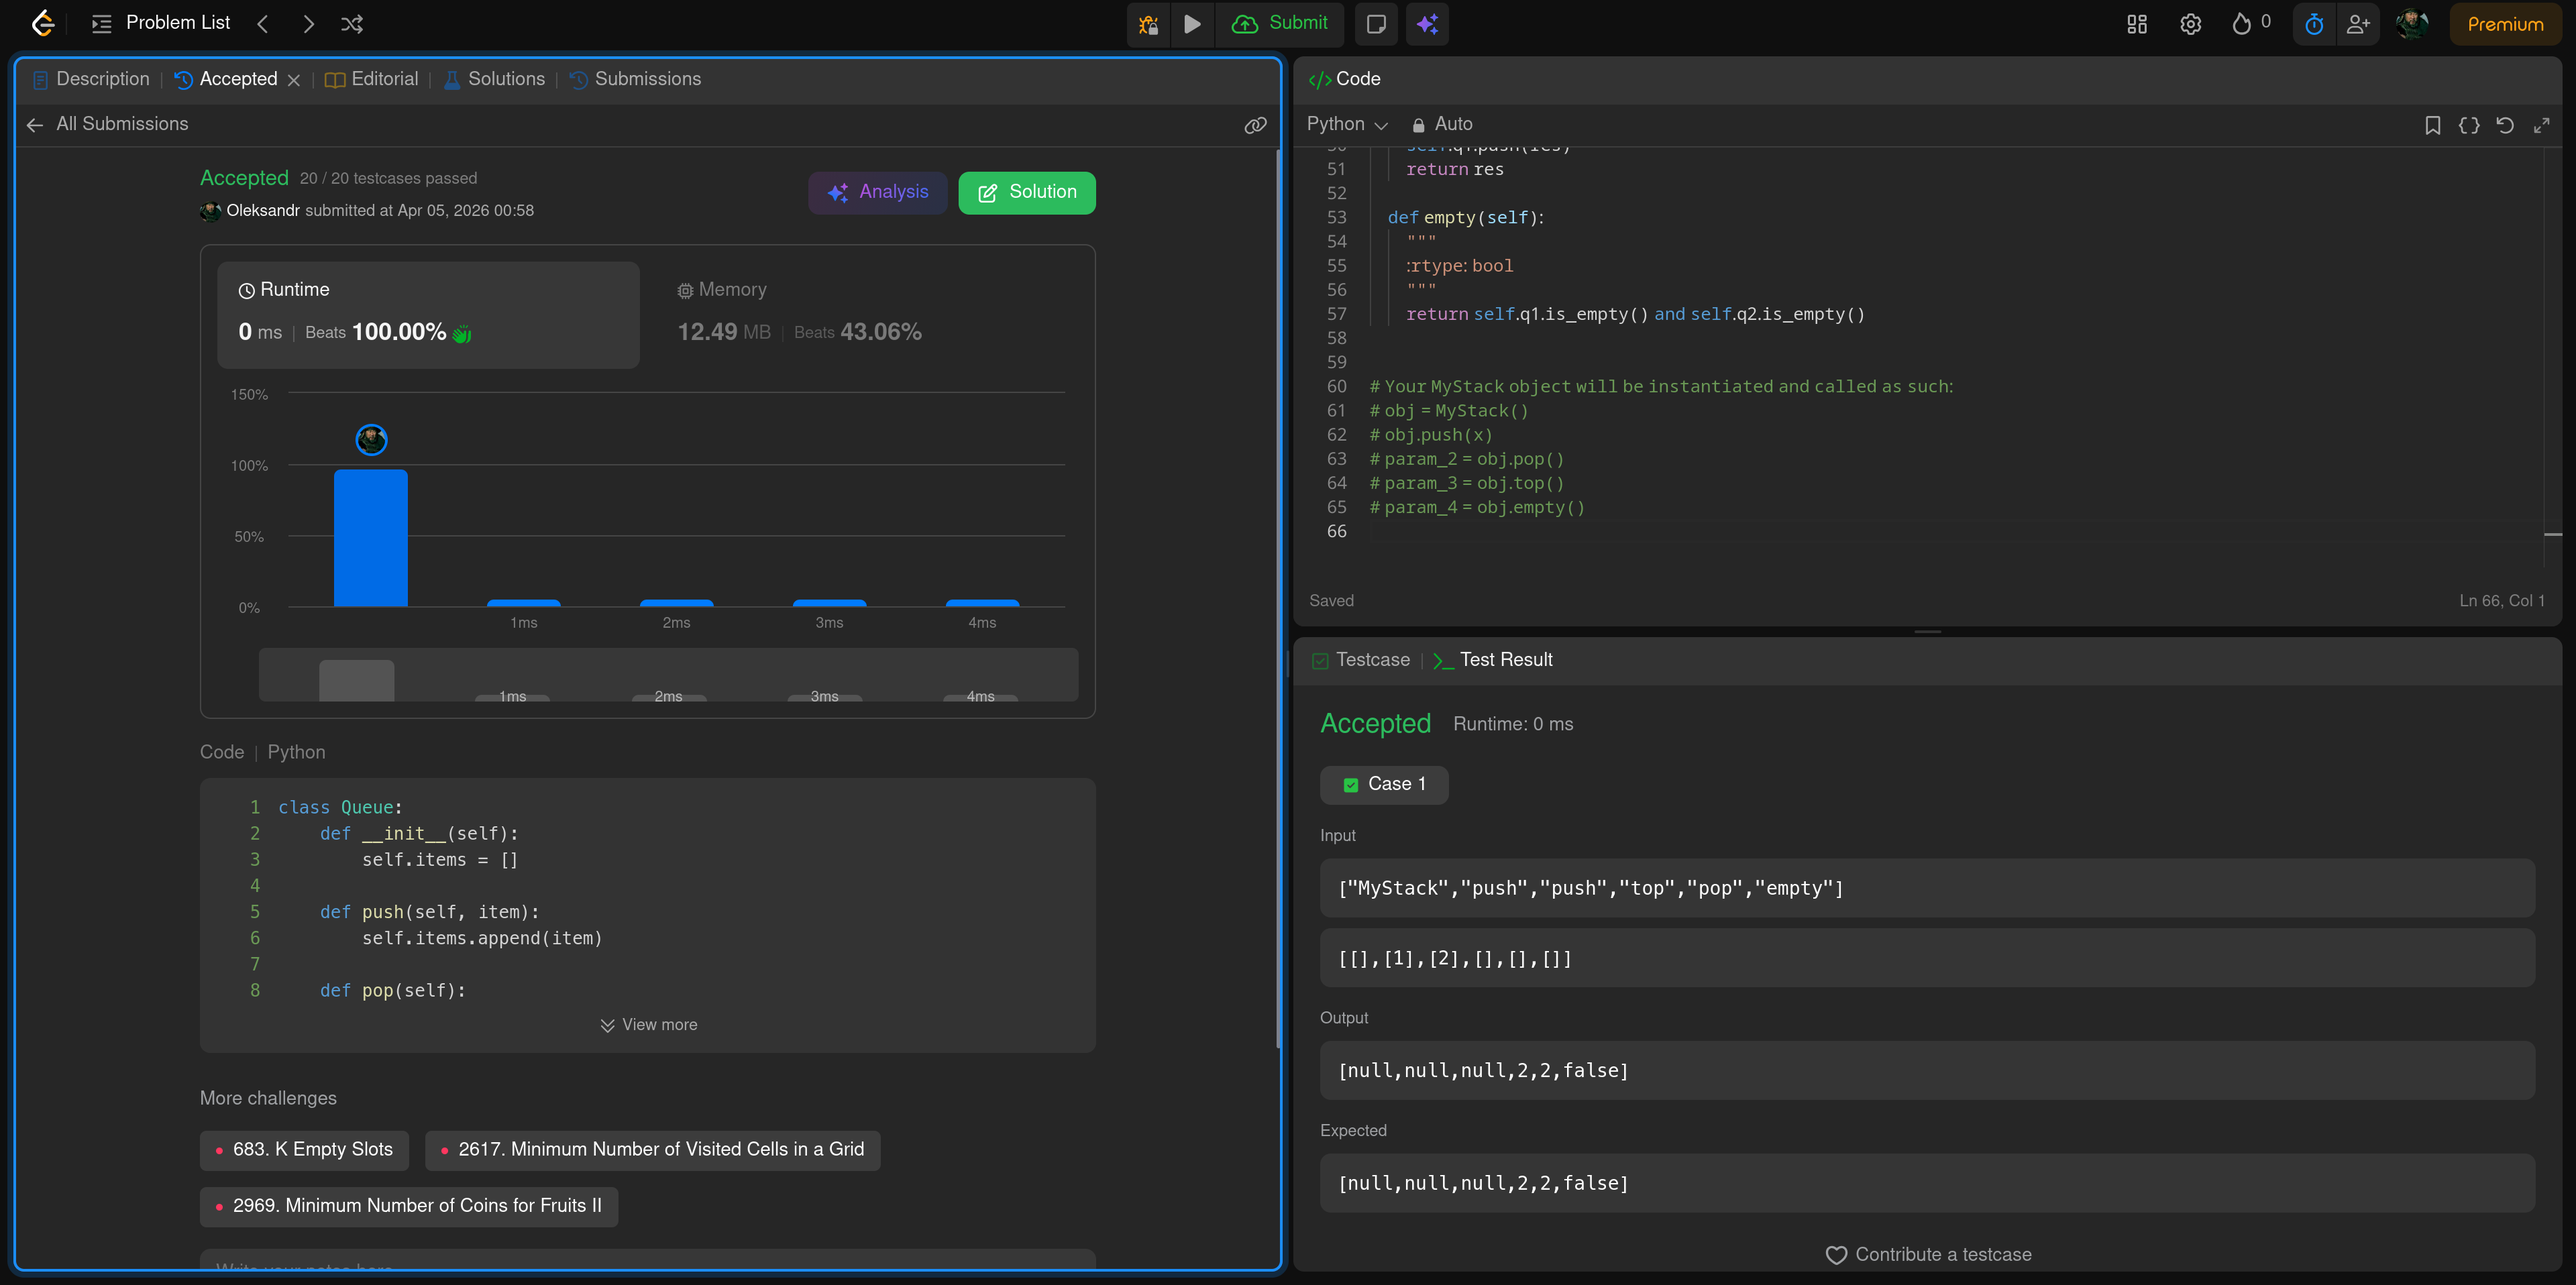
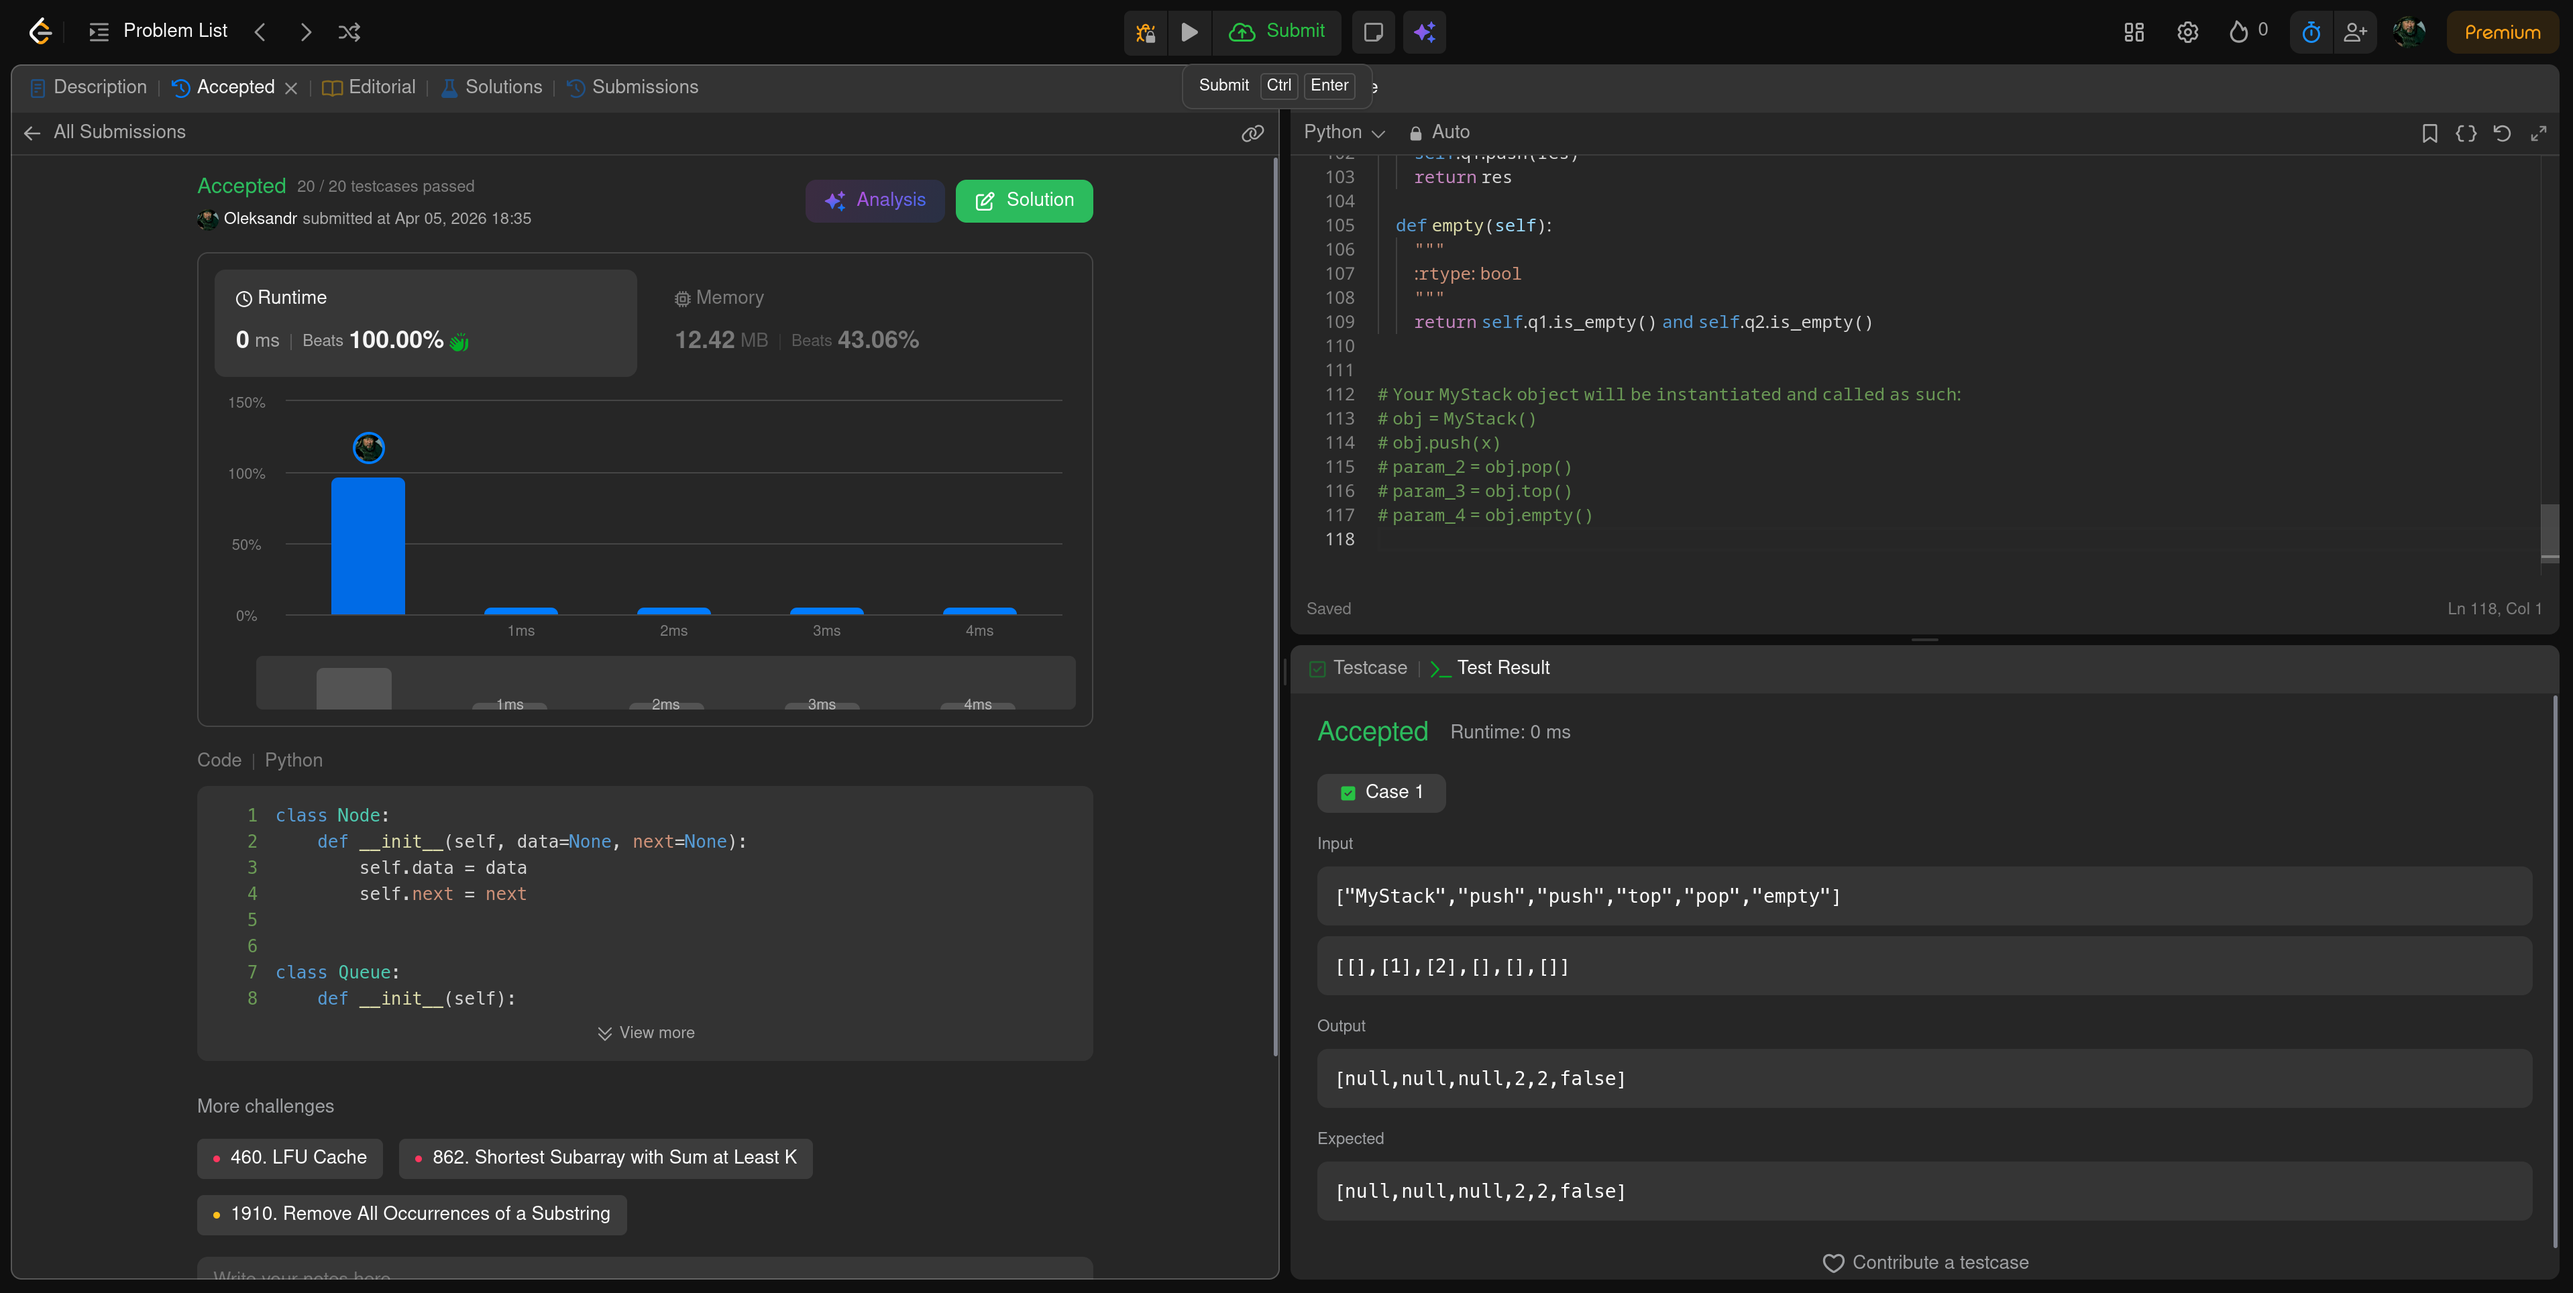
redone queue implementation using linked list

diff --git a/Stack_using_Queues/stack.py b/Stack_using_Queues/stack.py
@@ -1,18 +1,70 @@
+class Node:
+    def __init__(self, data=None, next=None):
+        self.data = data
+        self.next = next
+
+
 class Queue:
     def __init__(self):
-        self.items = []
+        self.items = None
 
     def push(self, item):
-        self.items.append(item)
+        self.items = Node(item, self.items)
 
     def pop(self):
-        return self.items.pop(0)
+        if self.items is None:
+            raise IndexError("pop from empty queue")
+
+        node = self.items
+        if node.next is None:
+            self.items = None
+            return node.data
+        if node.next.next is None:
+            res = node.next.data
+            self.items.next = None
+            return res
+
+        while node.next.next is not None:
+            node = node.next
+        res = node.next.data
+        node.next = None
+        return res
 
     def size(self):
-        return len(self.items)
+        k = 0
+        node = self.items
+        while node is not None:
+            node = node.next
+            k += 1
+        return k
 
     def is_empty(self):
-        return len(self.items) == 0
+        return self.size() == 0
+
+
+# def test_queue():
+#     q = Queue()
+#     q.push(1)
+#     q.push(2)
+#     q.push(3)
+#     assert q.pop() == 1
+#     assert q.pop() == 2
+#     assert q.pop() == 3
+#     try:
+#         q.pop()
+#     except IndexError:
+#         pass
+#     else:
+#         assert False, "Expected IndexError"
+
+#     assert q.size() == 0
+#     assert q.is_empty()
+#     q.push(4)
+#     assert q.size() == 1
+#     assert not q.is_empty()
+
+
+# test_queue()
 
 
 class MyStack(object):
